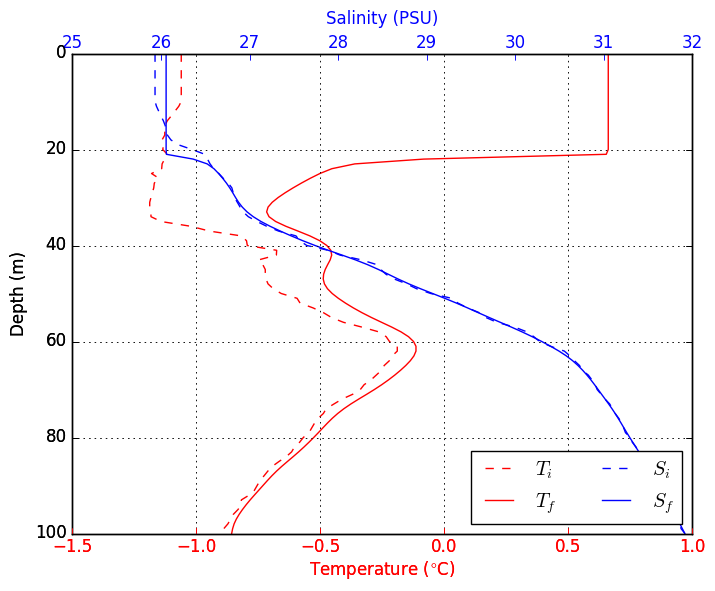
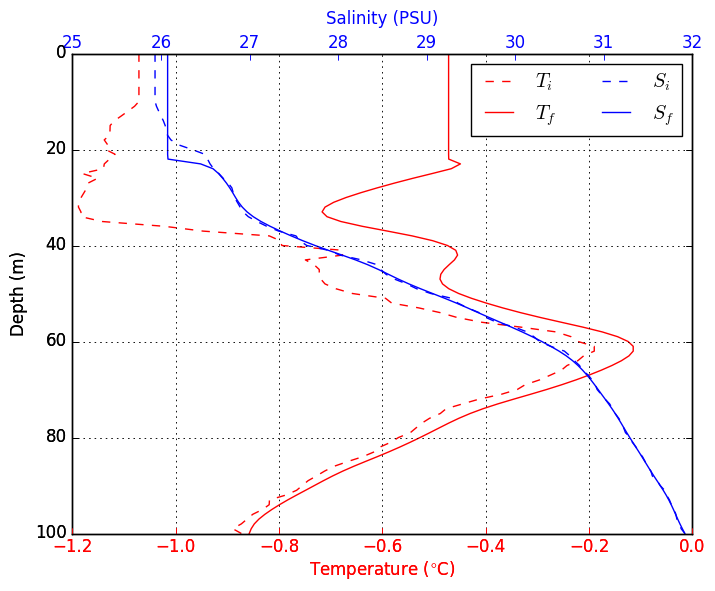
updated readme examples using output from corrected surface heat fluxes.

diff --git a/README.md b/README.md
@@ -95,7 +95,7 @@ Besides the python libraries listed here, this repository should have everything
 
 The plots below show the sample surface forcing data stored in the *met.nc*. These data represent summertime surface conditions over the Beaufort Sea.
 
-![Sample Forcing](plots/surface_forcing.png)
+![Sample Forcing](plots/surface_forcing_nodiff.png)
 
 The plot below compares initial (dashed lines) and final (solid) salinity and temperature profiles. This is with diffusion turned off (i.e. `rkz=0`).
 
